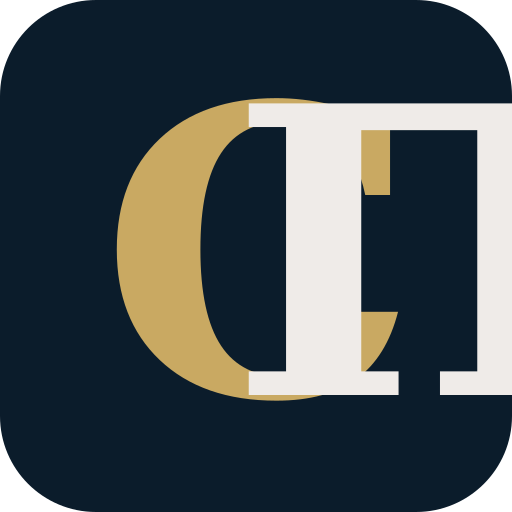
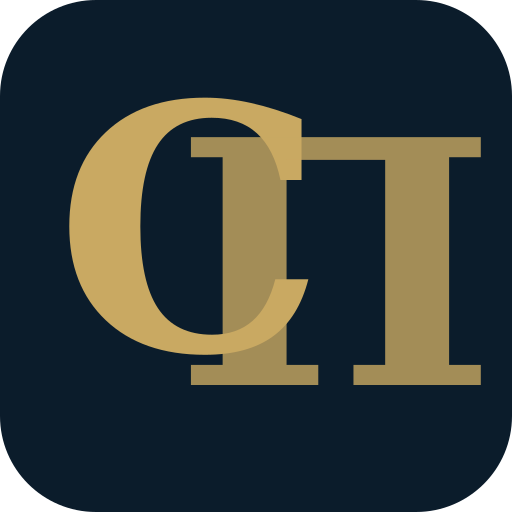
fix: обе буквы СП золотые, одного размера, П смещена вправо-вниз

diff --git a/scripts/generate-favicons.js b/scripts/generate-favicons.js
@@ -4,11 +4,11 @@ const path = require("path");
 
 const publicDir = path.join(__dirname, "..", "public");
 
-// SVG with overlapping СП letters
+// SVG with overlapping СП letters — both gold, same size, П shifted right+down
 const svg = `<svg xmlns="http://www.w3.org/2000/svg" viewBox="0 0 512 512">
   <rect width="512" height="512" rx="96" fill="#0b1c2b"/>
-  <text x="100" y="395" font-family="Georgia, 'Times New Roman', serif" font-weight="bold" font-size="400" fill="#c9a962" letter-spacing="-30">С</text>
-  <text x="230" y="395" font-family="Georgia, 'Times New Roman', serif" font-weight="bold" font-size="400" fill="#efebe8" letter-spacing="-30">П</text>
+  <text x="55" y="350" font-family="Georgia, 'Times New Roman', serif" font-weight="bold" font-size="340" fill="#c9a962">С</text>
+  <text x="175" y="385" font-family="Georgia, 'Times New Roman', serif" font-weight="bold" font-size="340" fill="#c9a962" opacity="0.8">П</text>
 </svg>`;
 
 const sizes = [
